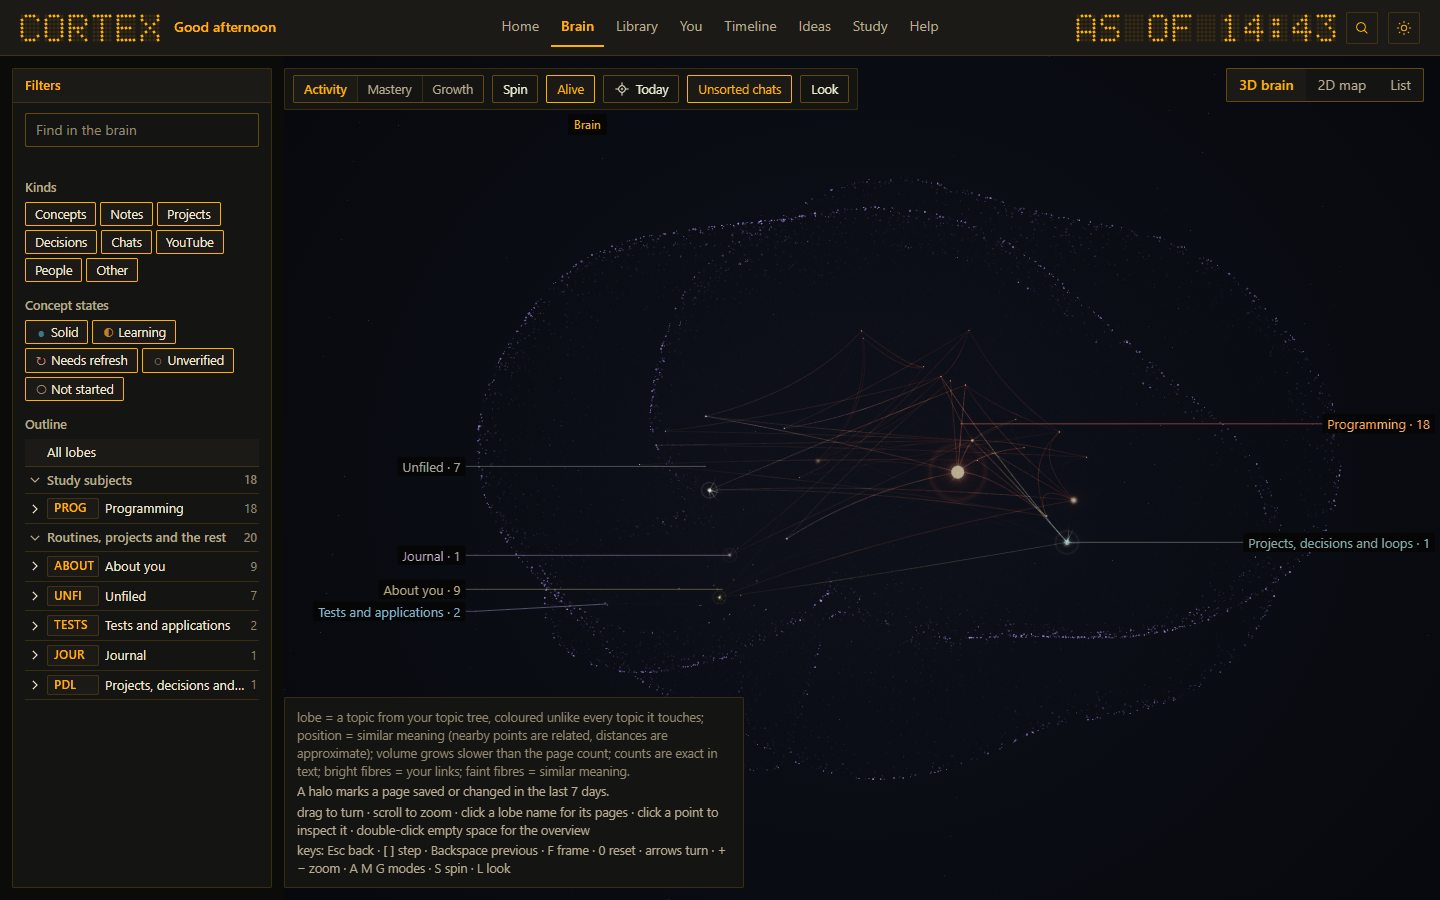
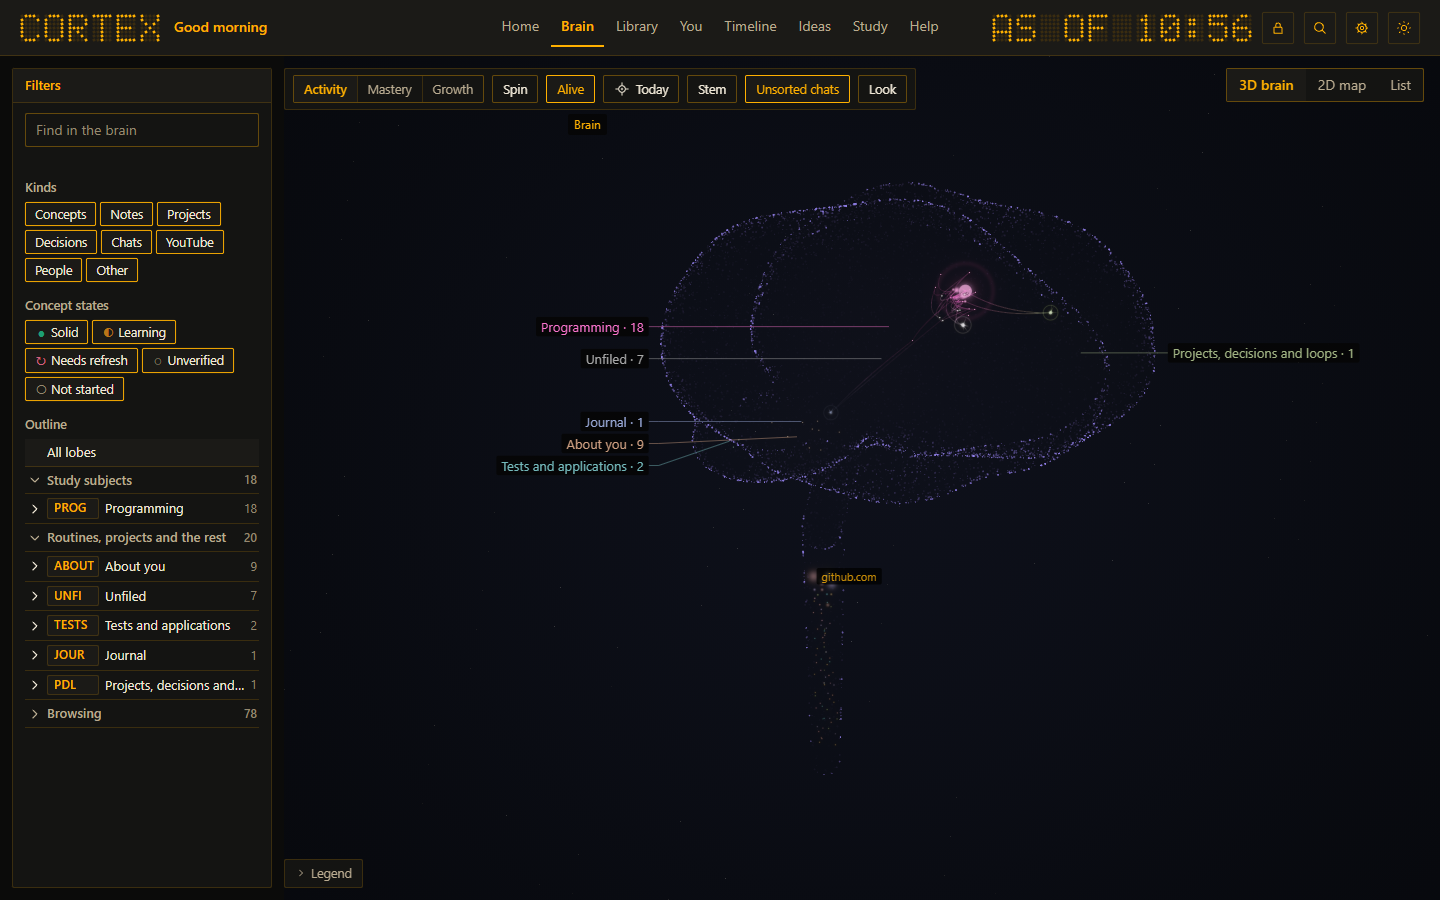
README: new home and brain screenshots (the app's live home and the brain with its stem, on the sample vault)

diff --git a/README.md b/README.md
@@ -2,7 +2,7 @@
 
 Cortex is a second brain and study planner that lives on your own computer and that Claude and other AI apps can read and write through MCP.
 
-![The Cortex dashboard: today's plan, coming tests and the 3D brain of a sample vault](docs/images/dashboard-home.png)
+![The Cortex home on a sample vault: Next up, the live 3D brain with its stem of websites, the live feed, exams and deadlines, and quick chat](docs/images/dashboard-home.png)
 
 *Every screenshot in this README shows the bundled sample learner, Sam, plus made-up demo data. None of it is a real person's.*
 
@@ -85,7 +85,7 @@ The readiness forecast for a test stays hidden until Cortex has 30 checked revie
 
 The **Brain** tab draws your vault as a brain: each topic is a lobe with its own colour, bright fibres are your own links, faint fibres join pages with similar meaning, and a halo marks pages saved in the last 7 days. Below the brain, the stem holds your browsing: one dot per site, sized by visits, glowing by how recently you went there and coloured by category; the **Stem** button flies to it, and clicking a site shows its days and searches. Drag to turn, scroll to zoom, click a page to see its connections. A 2D map and a list are one click away. It uses WebGL2 and falls back to a flat canvas.
 
-![The 3D brain: lobes labelled Programming, Unfiled, About you and others, with filters on the left](docs/images/dashboard-brain.png)
+![The 3D brain: lobes labelled Programming, Unfiled, About you and others, the stem of browsed websites below them, and filters with an outline on the left](docs/images/dashboard-brain.png)
 
 ### Study planning
 
